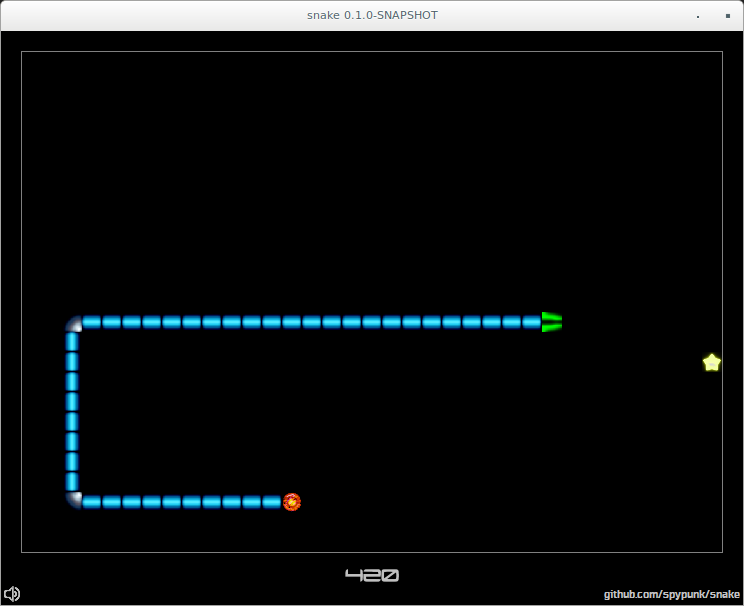
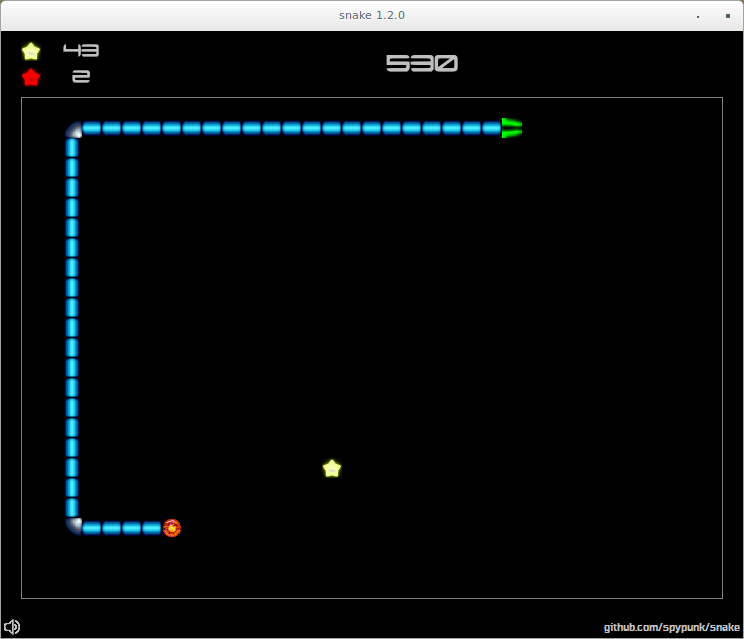
Preparation for release 1.2.0

diff --git a/README.md b/README.md
@@ -1,5 +1,5 @@
 # snake - Just another Snake clone ![alt tag](src/main/resources/img/icons/icon.png)
-[![License](https://img.shields.io/badge/license-WTFPL-blue.svg)](http://www.wtfpl.net/) ![Maturity](https://img.shields.io/badge/maturity-stable-green.svg) [![Release](https://img.shields.io/badge/latest%20release-1.1.0-green.svg)](https://github.com/spypunk/tetris/releases/tag/1.1.0) ![Java](https://img.shields.io/badge/java-8-red.svg) ![Maven](https://img.shields.io/badge/maven-3-orange.svg) [![Build Status](https://travis-ci.org/spypunk/snake.svg?branch=master)](https://travis-ci.org/spypunk/snake) [![Codacy Badge](https://api.codacy.com/project/badge/Grade/4d05e805b7ad406a82f10e7900fb497a)](https://www.codacy.com/app/spypunk/snake?utm_source=github.com&amp;utm_medium=referral&amp;utm_content=spypunk/snake&amp;utm_campaign=Badge_Grade) [![Twitter URL](https://img.shields.io/twitter/url/https/twitter.com/fold_left.svg?style=social&label=Follow)](https://twitter.com/spypunkk)
+[![License](https://img.shields.io/badge/license-WTFPL-blue.svg)](http://www.wtfpl.net/) ![Maturity](https://img.shields.io/badge/maturity-stable-green.svg) [![Release](https://img.shields.io/badge/latest%20release-1.2.0-green.svg)](https://github.com/spypunk/tetris/releases/tag/1.2.0) ![Java](https://img.shields.io/badge/java-8-red.svg) ![Maven](https://img.shields.io/badge/maven-3-orange.svg) [![Build Status](https://travis-ci.org/spypunk/snake.svg?branch=master)](https://travis-ci.org/spypunk/snake) [![Codacy Badge](https://api.codacy.com/project/badge/Grade/4d05e805b7ad406a82f10e7900fb497a)](https://www.codacy.com/app/spypunk/snake?utm_source=github.com&amp;utm_medium=referral&amp;utm_content=spypunk/snake&amp;utm_campaign=Badge_Grade) [![Twitter URL](https://img.shields.io/twitter/url/https/twitter.com/fold_left.svg?style=social&label=Follow)](https://twitter.com/spypunkk)
 ## How it looks ?
 
 ![alt tag](img/screenshot_start.png)

diff --git a/CHANGELOG.md b/CHANGELOG.md
@@ -4,7 +4,12 @@ All notable changes to this project will be documented in this file.
 The format is based on [Keep a Changelog](http://keepachangelog.com/) 
 and this project adheres to [Semantic Versioning](http://semver.org/).
 
+## [1.2.0] - 2016-09-28
+### Added
+Statistics added
+
 ## [1.1.0] - 2016-09-26
+### Added
 Bonus food added
 
 ## [1.0.0] - 2016-09-18
